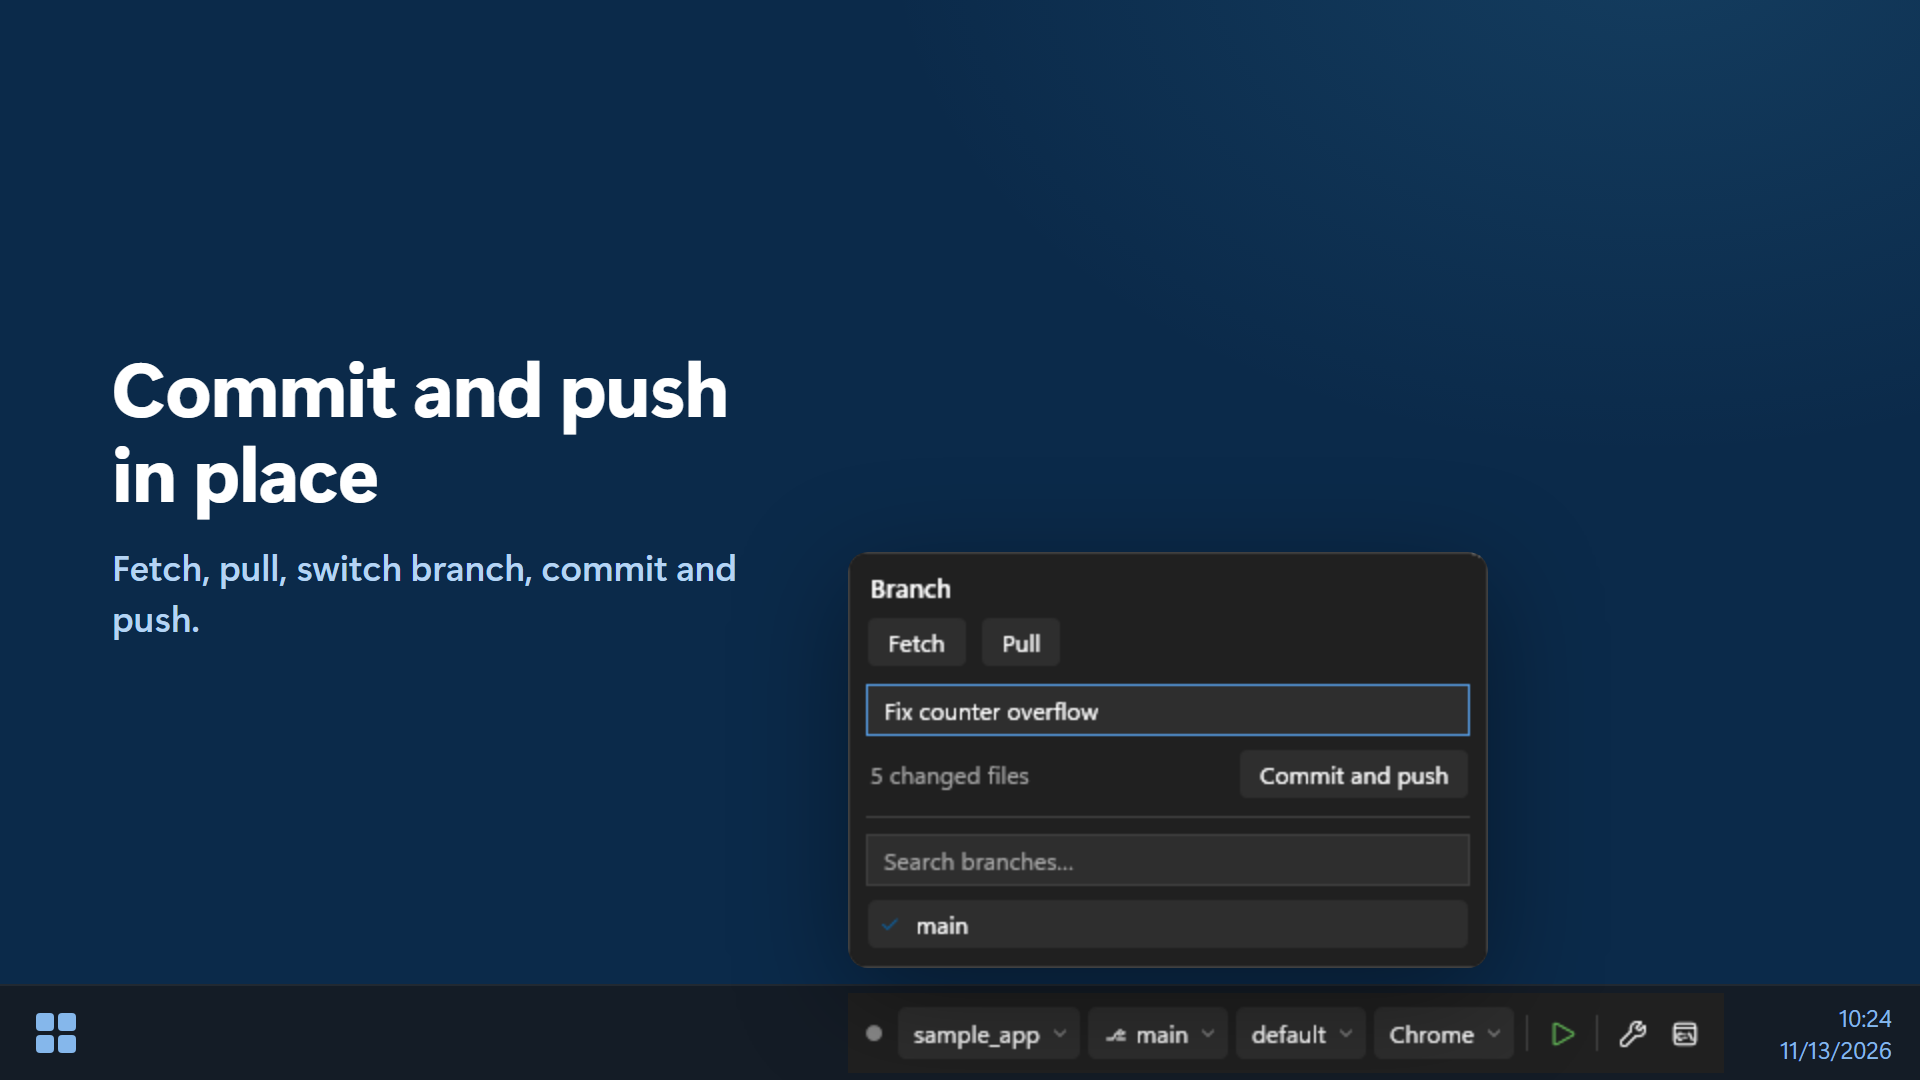
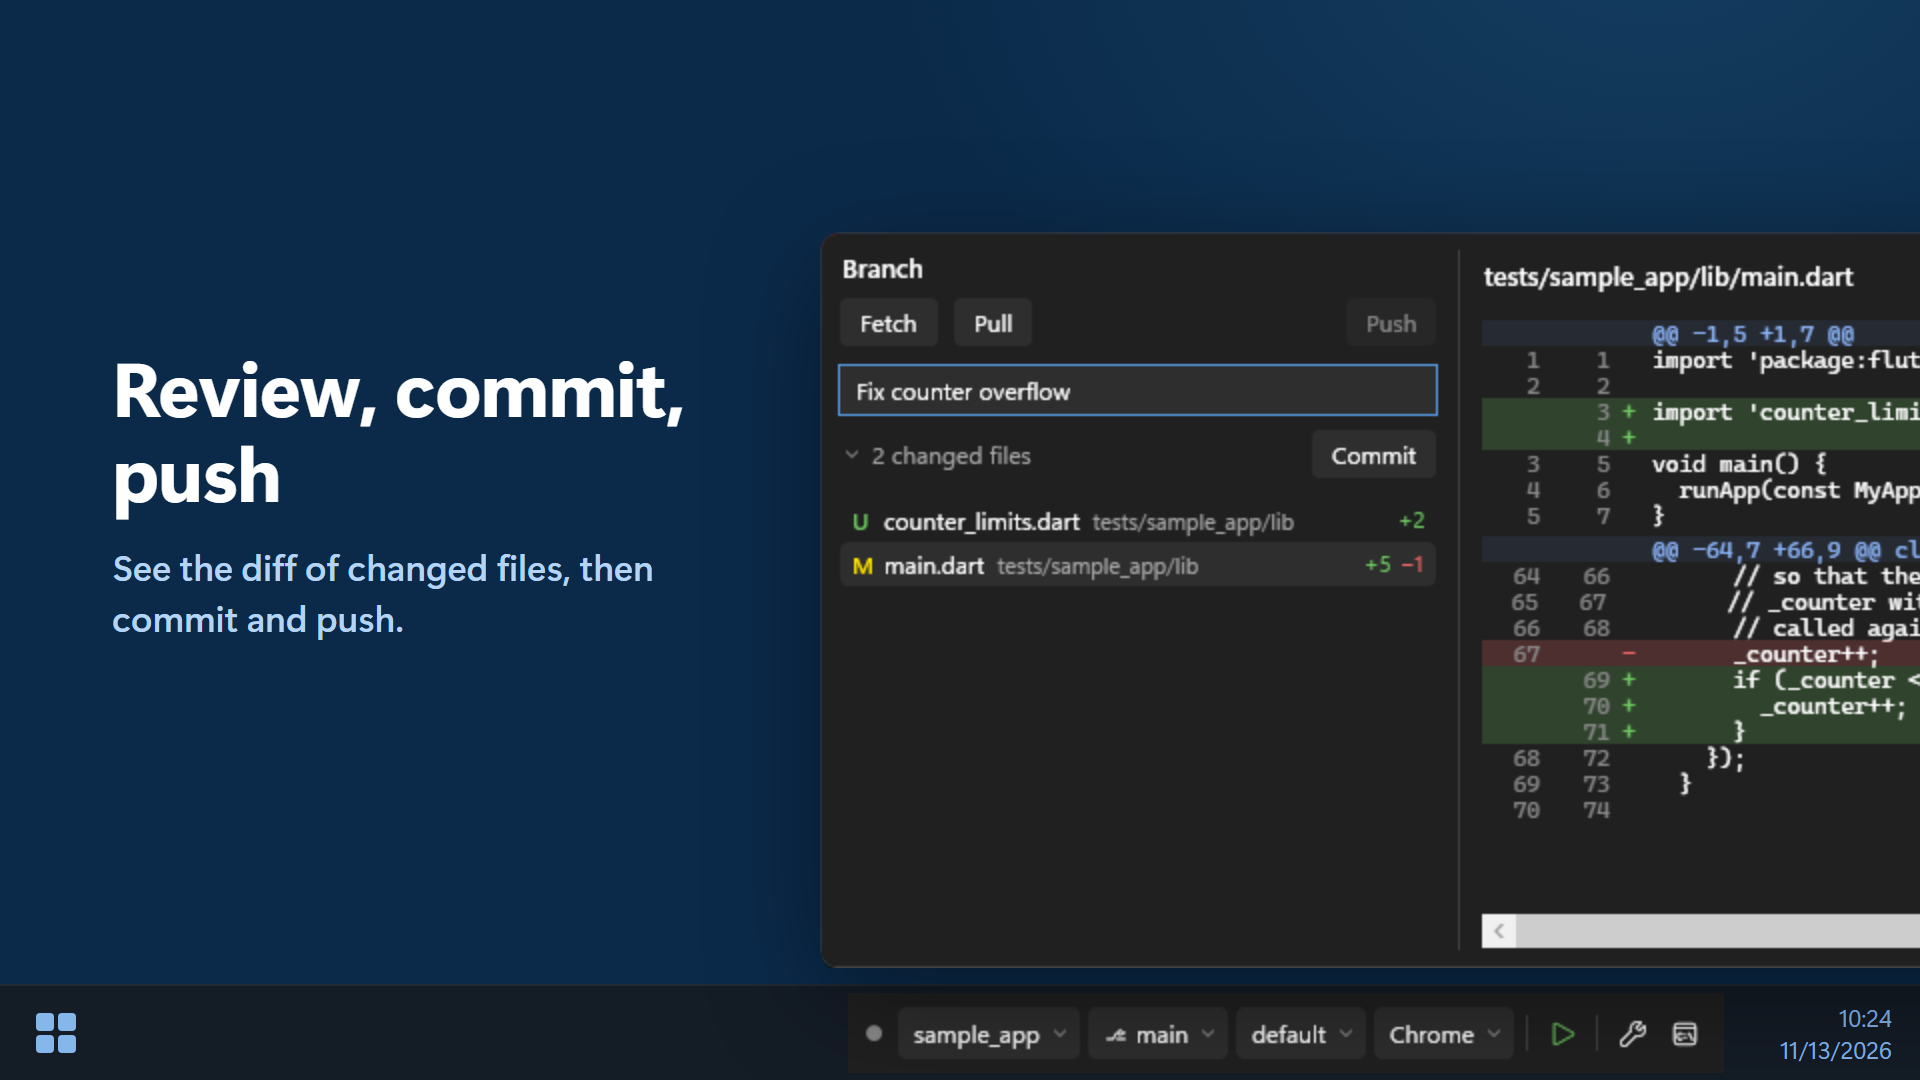
docs: retake the git, log and menu screenshots
The branch flyout frame now shows the changes panel.

Changed region(s): [[0.0625, 0.2139, 1.0, 0.9167], [0.0625, 0.3361, 0.375, 0.3972]]

diff --git a/screenshots/custom/desktop.html b/screenshots/custom/desktop.html
@@ -6,6 +6,7 @@
 
   Placeholders: theme, shot, title, subtitle, and per caption:
     kind   popup   flyout or menu, standing on the taskbar above the widget's left edge
+           wide    a widened flyout with its own rounded corners; stands on the taskbar and runs off the right edge
            window  a normal window (log); wider than the stage, it runs off the right edge
            terminal  like window, with padding around the console text
            stack   a pre-composed picture, centred in the stage
@@ -54,6 +55,9 @@ p { margin-top: 14px; font-size: 18px; font-weight: 500; line-height: 1.4; color
 /* Flyouts and menus open above the widget, left edges aligned (the widget ends 98 px from the right edge). */
 .kind-popup .shot { bottom: 8px; left: var(--widget-left); }
 .kind-popup .shot img { border-radius: 10px; }
+
+/* A flyout that widened beyond the stage (the branch flyout's changes panel): still on the taskbar, off the right edge. */
+.kind-wide .shot { bottom: 8px; left: 410px; }
 
 .kind-window .shot, .kind-terminal .shot { left: 410px; top: 50%; transform: translateY(-50%); }
 .kind-window .shot img { border-radius: 8px; }

diff --git a/screenshots/SHOTLIST.md b/screenshots/SHOTLIST.md
@@ -29,15 +29,20 @@ Captions, colours, and the frame size are in `config.json`; the frame layout is 
 | `widget_error.png` | The widget window | Running, after a hot reload that throws (red dot) |
 | `01_widget.png` | Copy of `widget_running.png` | The frame shows the widget on the taskbar only |
 | `02_cli.png` | A console after `sbar status`, `sbar reload`, `sbar logs --errors --since-last-reload` | Without the title bar and the empty lower part |
-| `03_log.png` | The log window, scrolled to the top | Without the title bar; one clean hot reload, then one that throws |
+| `03_log.png` | The log window (about 730 px wide, so the whole toolbar stays inside the frame), scrolled to the top | Without the title bar; one clean hot reload, then one that throws |
 | `04_devices.png` | The device flyout | Idle, list loaded |
-| `05_git.png` | The branch flyout | Idle, a commit message typed |
+| `05_git.png` | The branch flyout with the changes panel open (800 px wide), `main.dart` selected, on a transparent background | A commit message typed; two changed files (see below); wait until the file-path tooltip is gone |
 | `06_tools.png` | The Flutter tools flyout | Idle |
 | `07_sizes.png` | Full, Compact, Buttons only, each Dark then Light, stacked with a transparent background | Running |
 | `08_menu.png` | The right-click menu with the Style submenu open, on a transparent background | Idle |
 
 For the hot reload that throws, add `throw StateError('Counter overflow');` as the first line of
 `_MyHomePageState.build` in `tests/sample_app/lib/main.dart`, hot reload, and restore the file afterwards.
+
+For the changes panel, make a small edit that reads well as a diff and undo it afterwards: add
+`lib/counter_limits.dart` with `const int maxCounter = 99;`, import it in `lib/main.dart`, and wrap `_counter++;` in
+`if (_counter < maxCounter) { ... }`. Remove the temporary `.statefulbar/launch.json` first, or it shows up as a changed
+file too.
 
 The three `widget_*.png` files are also used by every frame for the widget on the drawn taskbar (`images` in
 `config.json`).

diff --git a/README.md b/README.md
@@ -47,7 +47,7 @@ Click a picture to see it at full size.
   <img src="docs/images/02_cli.png" width="49%" alt="A terminal running sbar status, sbar reload, and sbar logs">
   <img src="docs/images/03_log.png" width="49%" alt="The log window with a hot reload and an exception block">
   <img src="docs/images/04_devices.png" width="49%" alt="The device flyout with devices and an offline emulator">
-  <img src="docs/images/05_git.png" width="49%" alt="The branch flyout with Fetch, Pull, and Commit and push">
+  <img src="docs/images/05_git.png" width="49%" alt="The branch flyout with changed files and a diff">
   <img src="docs/images/06_tools.png" width="49%" alt="The Flutter tools flyout with Pub get, Clean, and Doctor">
   <img src="docs/images/07_sizes.png" width="49%" alt="The widget in three sizes, dark and light">
   <img src="docs/images/08_menu.png" width="49%" alt="The right-click menu with the Style submenu open">

diff --git a/docs/README.id.md b/docs/README.id.md
@@ -46,7 +46,7 @@ Klik gambar untuk melihat ukuran penuhnya.
   <img src="images/02_cli.png" width="49%" alt="Terminal yang menjalankan sbar status, sbar reload, dan sbar logs">
   <img src="images/03_log.png" width="49%" alt="Jendela log dengan satu hot reload dan satu blok exception">
   <img src="images/04_devices.png" width="49%" alt="Flyout device berisi device dan emulator yang belum menyala">
-  <img src="images/05_git.png" width="49%" alt="Flyout branch dengan Fetch, Pull, serta Commit and push">
+  <img src="images/05_git.png" width="49%" alt="Flyout branch dengan daftar file berubah dan diff-nya">
   <img src="images/06_tools.png" width="49%" alt="Flyout Flutter tools dengan Pub get, Clean, dan Doctor">
   <img src="images/07_sizes.png" width="49%" alt="Widget dalam tiga ukuran, tema gelap dan terang">
   <img src="images/08_menu.png" width="49%" alt="Menu klik kanan dengan submenu Style terbuka">
